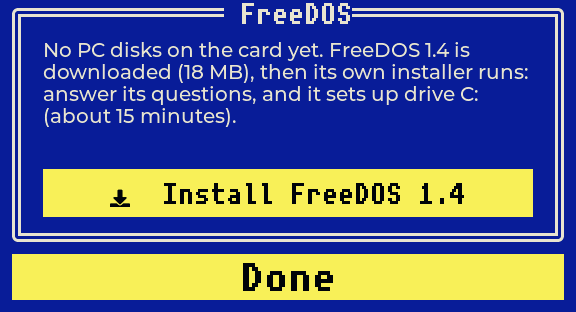
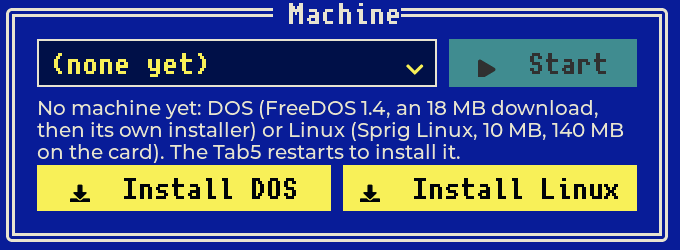
Empty card: the Machine frame alone; README: Sprig Linux's start
The settings panel on an empty card no longer puts a FreeDOS frame in
place of the sliders: the Machine frame's Install DOS and Install Linux
set up the first machine. The offer to start from an installer CD's
.iso went with that frame; the README describes the same set-up by
hand, and dosdisk.py new now gives a disk the firmware's boot code, so
a blank C: passes the boot on to the CD (tested in QEMU with FreeDOS's
LiveCD). New screenshots: the empty card's Machine frame, Sprig Linux
starting.

diff --git a/firmware/tab5_386/settings_ui.h b/firmware/tab5_386/settings_ui.h
@@ -25,8 +25,6 @@ static lv_display_t* g_disp;
 static lv_obj_t *ui_wifi, *ui_addr, *ui_pcstate, *ui_list, *ui_scan_lbl, *ui_pause_lbl, *ui_reset_lbl;
 static lv_obj_t *ui_modal, *ui_modal_title, *ui_ta_ssid, *ui_ta_pass, *ui_show_btn, *ui_msg, *ui_spinner, *ui_kb;
 static lv_obj_t *ui_connect_btn, *ui_bri, *ui_vol, *ui_mouse, *ui_wifi_sw, *ui_batt, *ui_aspect_sw;
-static lv_obj_t *ui_dc, *ui_fd, *ui_fd_msg, *ui_fd_bar, *ui_fd_btn, *ui_fd_iso, *ui_dc_cap, *ui_fd_cap;   // the sliders; or, the card empty, installing
-                                                                    // FreeDOS (fd_install.h) in their place
 static lv_obj_t *ui_mach_dd, *ui_mach_start, *ui_inst_msg, *ui_dos_btn, *ui_lnx_btn;   // the machines
 static int64_t g_start_armed = 0;   // "Start" tapped once at this time (as Reset PC: it restarts the Tab5)
 // The dialog: a Wi-Fi network's name and password, or a new machine's name (Install DOS / Install Linux)
@@ -226,7 +224,7 @@ static void ui_fill_machines() {
     opts += g_machines[i].name;
     if (machine_path() == "/sdcard/" + String(g_machines[i].file)) cur = i;
   }
-  lv_dropdown_set_options(ui_mach_dd, g_machine_count ? opts.c_str() : "(no settings file on the card)");
+  lv_dropdown_set_options(ui_mach_dd, g_machine_count ? opts.c_str() : "(none yet)");
   lv_dropdown_set_selected(ui_mach_dd, cur);
   g_start_armed = 0;
 }
@@ -274,43 +272,19 @@ static void ui_refresh_status() {
     else lv_obj_remove_state(ui_mach_start, LV_STATE_DISABLED);
     // a new machine: DOS (fd_install.h) or Linux (linux_install.h), installed after a restart with no PC
     const bool net = !g_ssid.isEmpty();
-    const char* msg = net ? "A new machine: DOS (FreeDOS 1.4, an 18 MB download, then its own installer) or Linux "
-                            "(Sprig Linux, 10 MB, 140 MB on the card). The Tab5 restarts to install it."
-                          : "A new machine, DOS or Linux: set up Wi-Fi first (a network on the right).";
+    // (no machine: an empty card, where the panel opens by itself, with Wi-Fi on)
+    const char* msg =
+        !net && !g_machine_count ? "No machine on the card yet: choose a Wi-Fi network on the right, then install DOS "
+                                   "or Linux."
+        : !net ? "A new machine, DOS or Linux: set up Wi-Fi first (a network on the right)."
+        : !g_machine_count ? "No machine yet: DOS (FreeDOS 1.4, an 18 MB download, then its own installer) or Linux "
+                             "(Sprig Linux, 10 MB, 140 MB on the card). The Tab5 restarts to install it."
+        : "A new machine: DOS (FreeDOS 1.4, an 18 MB download, then its own installer) or Linux (Sprig Linux, 10 MB, "
+          "140 MB on the card). The Tab5 restarts to install it.";
     if (strcmp(lv_label_get_text(ui_inst_msg), msg)) lv_label_set_text(ui_inst_msg, msg);
     for (lv_obj_t* b : {ui_dos_btn, ui_lnx_btn}) {
       if (net) lv_obj_remove_state(b, LV_STATE_DISABLED);
       else lv_obj_add_state(b, LV_STATE_DISABLED);
-    }
-  }
-  if (g_setup_needed) {   // (known after the panel is made: load_config)
-    lv_obj_add_flag(ui_dc, LV_OBJ_FLAG_HIDDEN);
-    lv_obj_add_flag(ui_dc_cap, LV_OBJ_FLAG_HIDDEN);
-    lv_obj_remove_flag(ui_fd, LV_OBJ_FLAG_HIDDEN);
-    lv_obj_remove_flag(ui_fd_cap, LV_OBJ_FLAG_HIDDEN);
-    const bool running = g_fd_state == FD_RUNNING, up = g_wifi == WIFI_UP;
-    static char iso_msg[200];
-    snprintf(iso_msg, sizeof(iso_msg), "No PC disks on the card yet. Install FreeDOS 1.4 (downloaded, 18 MB), or "
-             "start the PC from %s with a new, empty C: drive%s.", g_fd_iso, up ? "" : " (FreeDOS: Wi-Fi first)");
-    const char* msg = g_fd_state != FD_IDLE ? g_fd_msg
-                      : g_fd_iso[0] ? iso_msg
-                      : up ? "No PC disks on the card yet. FreeDOS 1.4 is downloaded (18 MB), then its own installer "
-                             "runs: answer its questions, and it sets up drive C: (about 15 minutes)."
-                           : "No PC disks on the card yet. Connect to Wi-Fi (on the right), then install FreeDOS.";
-    if (strcmp(lv_label_get_text(ui_fd_msg), msg)) lv_label_set_text(ui_fd_msg, msg);
-    lv_obj_set_style_text_color(ui_fd_msg, lv_color_hex(g_fd_state == FD_FAILED ? C_WARN : C_INK), 0);
-    if (running) lv_obj_remove_flag(ui_fd_bar, LV_OBJ_FLAG_HIDDEN);
-    else lv_obj_add_flag(ui_fd_bar, LV_OBJ_FLAG_HIDDEN);
-    lv_bar_set_value(ui_fd_bar, g_fd_pct, LV_ANIM_OFF);
-    if (up && !running) lv_obj_remove_state(ui_fd_btn, LV_STATE_DISABLED);
-    else lv_obj_add_state(ui_fd_btn, LV_STATE_DISABLED);
-    if (g_fd_iso[0]) {   // two buttons side by side: the download, and the CD image
-      lv_obj_set_width(ui_fd_btn, 220);
-      lv_label_set_text(lv_obj_get_child(ui_fd_btn, 0), LV_SYMBOL_DOWNLOAD "  FreeDOS");
-      lv_obj_remove_flag(ui_fd_iso, LV_OBJ_FLAG_HIDDEN);
-      lv_label_set_text_fmt(lv_obj_get_child(ui_fd_iso, 0), LV_SYMBOL_DRIVE "  %s", g_fd_iso);
-      if (!running) lv_obj_remove_state(ui_fd_iso, LV_STATE_DISABLED);
-      else lv_obj_add_state(ui_fd_iso, LV_STATE_DISABLED);
     }
   }
 }
@@ -859,44 +833,7 @@ static void ui_setup() {
     g_prefs.putBool("aspect43", g_aspect43);   // (drawn so when the panel closes: g_redraw_pc)
   }, LV_EVENT_VALUE_CHANGED, nullptr);
   ui_switch_label(asp, ui_aspect_sw);
-  lv_obj_t* dc_cap = ui_caption(scr, "Screen, sound, touchpad", LX, DY, LW);
-
-  // an empty card: FreeDOS from freedos.org, in place of the sliders (fd_install.h; shown by ui_refresh_status)
-  ui_dc = dc;
-  ui_dc_cap = dc_cap;
-  {
-    ui_fd = ui_card(scr, LX, DY, LW, 222);
-    lv_obj_add_flag(ui_fd, LV_OBJ_FLAG_HIDDEN);
-    ui_fd_msg = ui_label(ui_fd, "", &lv_font_montserrat_20, C_INK);   // (prose: the smaller face)
-    lv_label_set_long_mode(ui_fd_msg, LV_LABEL_LONG_WRAP);
-    lv_obj_set_width(ui_fd_msg, lv_pct(100));
-    lv_obj_set_pos(ui_fd_msg, 0, 0);
-    ui_fd_bar = lv_bar_create(ui_fd);
-    lv_bar_set_range(ui_fd_bar, 0, 100);
-    lv_obj_set_size(ui_fd_bar, LW - 50, 14);
-    lv_obj_set_pos(ui_fd_bar, 0, 108);
-    lv_obj_set_style_radius(ui_fd_bar, 0, 0);
-    lv_obj_set_style_radius(ui_fd_bar, 0, LV_PART_INDICATOR);
-    lv_obj_set_style_bg_color(ui_fd_bar, lv_color_hex(C_DEEP), 0);
-    lv_obj_set_style_bg_color(ui_fd_bar, lv_color_hex(C_ACCENT), LV_PART_INDICATOR);
-    ui_fd_btn = ui_button(ui_fd, LV_SYMBOL_DOWNLOAD "  Install FreeDOS 1.4", [](lv_event_t*) {
-      ui_show_name_modal(MODAL_DOS);   // (a named machine, as from the Machine frame)
-    }, true);
-    lv_obj_set_size(ui_fd_btn, LW - 50, 48);
-    lv_obj_set_pos(ui_fd_btn, 0, 130);
-    ui_fd_iso = ui_button(ui_fd, "", [](lv_event_t*) {
-      fd_install_start(true);
-      ui_refresh_status();
-    }, true);
-    lv_obj_set_size(ui_fd_iso, 266, 48);
-    lv_obj_set_pos(ui_fd_iso, LW - 50 - 266, 130);
-    lv_obj_t* iso_l = lv_obj_get_child(ui_fd_iso, 0);   // (one line: a long name ends in "...")
-    lv_label_set_long_mode(iso_l, LV_LABEL_LONG_DOT);
-    lv_obj_set_size(iso_l, 242, 26);
-    lv_obj_add_flag(ui_fd_iso, LV_OBJ_FLAG_HIDDEN);
-    ui_fd_cap = ui_caption(scr, "FreeDOS", LX, DY, LW);
-    lv_obj_add_flag(ui_fd_cap, LV_OBJ_FLAG_HIDDEN);
-  }
+  ui_caption(scr, "Screen, sound, touchpad", LX, DY, LW);
 
   lv_obj_t* done = ui_button(scr, "Done", [](lv_event_t*) { panel_close(); }, true);
   lv_obj_set_pos(done, LX - 6, DY + 222 + 18);

diff --git a/firmware/tab5_386/fd_install.h b/firmware/tab5_386/fd_install.h
@@ -54,13 +54,12 @@ enum FdState { FD_IDLE, FD_RUNNING, FD_FAILED };
 static volatile FdState g_fd_state = FD_IDLE;
 static volatile int g_fd_pct = 0;       // the download's progress
 static char g_fd_msg[120] = "";         // what it is doing, or why it failed (the settings panel shows it)
-static bool g_setup_needed = false;     // no disks on the card (load_config): the panel offers the install
+static bool g_setup_needed = false;     // no disks on the card (load_config): the panel opens, to install a machine
 // tiny386.ini's [tab5] install: 1, FreeDOS's installer is running (from FDSETUP.IMG); 2, the PC starts from an
-// installer CD, and C.IMG has no system yet. (Installs ran with the translator off for a while: two of five had
-// stopped partway, from the code sync fixed since, src/t386_i386.c.)
+// installer CD, and C.IMG has no system yet (set up by 1.2.0 and before, which offered an .iso on an empty card).
+// (Installs ran with the translator off for a while: two of five had stopped partway, from the code sync fixed since,
+// src/t386_i386.c.)
 static int g_install_mode = 0;
-static char g_fd_iso[80] = "";          // an installer CD image at the card's root (an empty card): offered as well
-static bool g_fd_from_iso = false;      // the install asked for: from g_fd_iso (else FreeDOS's download)
 
 static void fd_say(const char* fmt, ...) {
   va_list ap;
@@ -266,35 +265,6 @@ static const char* FD_INI_FINAL =
     "; 1: the hard disks' geometry in the CMOS (some systems want it, others not)\r\nfill_cmos = 1\r\n"
     "[cpu]\r\n; 3/4/5/6 = 386/486/586/686\r\ngen = 4\r\n; 1 = x87 maths coprocessor\r\nfpu = 1\r\n";
 
-// An installer CD's ISO image at the card's root (not our NOCD.ISO): the first one, into g_fd_iso
-static void fd_find_iso() {
-  DIR* d = opendir("/sdcard");
-  if (!d) return;
-  while (struct dirent* e = readdir(d)) {
-    const size_t n = strlen(e->d_name);
-    if (n < 5 || n >= sizeof(g_fd_iso) || strcasecmp(e->d_name + n - 4, ".iso") || !strcasecmp(e->d_name, "NOCD.ISO"))
-      continue;
-    char path[100];
-    snprintf(path, sizeof(path), "/sdcard/%s", e->d_name);
-    struct stat st;
-    if (stat(path, &st) == 0 && S_ISREG(st.st_mode) && st.st_size >= (1 << 20)) {
-      strcpy(g_fd_iso, e->d_name);
-      break;
-    }
-  }
-  closedir(d);
-}
-
-static const char* FD_INI_ISO =
-    "; Tab5 PC machine settings, written by the firmware: the PC starts from the CD (%s) while C.IMG has no\r\n"
-    "; files, and from C.IMG once something is installed on it (the BIOS tries the hard disk first). Without the CD\r\n"
-    "; in the drive: delete the cdc line.\r\n"
-    "[pc]\r\nhda = @/C.IMG\r\ncdc = /sdcard/%s\r\n"
-    "mem_size = 16M\r\nvga_mem_size = 2M\r\nfill_cmos = 1\r\n"
-    "[cpu]\r\ngen = 4\r\nfpu = 1\r\n"
-    "; until a system is on C.IMG (the firmware deletes this then)\r\n"
-    "[tab5]\r\ninstall = 2\r\n";
-
 // text into the file at path, in pieces under a sector, unbuffered: FatFs copies each through its own sector buffer.
 // (Given 512 bytes or more at a sector's start, FatFs hands the caller's memory to the card's DMA, which needs it
 // 128-byte aligned in DMA-capable memory: FD_INI_FINAL, in flash, failed so, "sdmmc_write_blocks failed (0x102)",
@@ -405,7 +375,7 @@ static bool fd_install_finish() {
       for (size_t n; (n = fread(buf, 1, sizeof(buf), f)) > 0;) ini.concat(buf, n);
       fclose(f);
     }
-    for (const char* line : {"; until a system", "[tab5]", "install = 2"}) {   // (FD_INI_ISO's last lines)
+    for (const char* line : {"; until a system", "[tab5]", "install = 2"}) {   // (the ini's last lines)
       const int at = ini.indexOf(line), nl = at < 0 ? -1 : ini.indexOf('\n', at);
       if (at >= 0) ini.remove(at, nl < 0 ? ini.length() - at : nl + 1 - at);
     }
@@ -534,14 +504,6 @@ static bool fd_install_run() {
     struct stat st;
     if (stat(FD_DISK, &st) == 0) { fd_say("%s/C.IMG is already on the card: delete it first (it isn't replaced)", g_fd_dir.c_str() + 7); break; }
     mkdir(g_fd_dir.c_str(), 0777);
-    if (g_fd_from_iso) {   // the CD the user put on the card: a blank C: drive, and the PC starts from the CD
-      char ini[1024];
-      snprintf(ini, sizeof(ini), FD_INI_ISO, g_fd_iso, g_fd_iso);
-      if (!fd_make_disk()) break;
-      if (!fd_write_file(FD_INI, fd_ini_text(ini).c_str())) { fd_say("Writing to the card failed"); unlink(FD_DISK); break; }
-      ok = true;
-      break;
-    }
     if (!fd_download_psram_tls(buf, dict, inf)) break;
     if (!fd_make_disk()) { unlink(FD_SETUP); break; }
     if (!fd_write_file(FD_NOCD, "") || !fd_write_file(FD_INI, fd_ini_text(FD_INI_INSTALL).c_str())) {
@@ -569,22 +531,17 @@ static void fd_install_task(void*) {
       g_fd_state = FD_FAILED;
       continue;
     }
-    if (!g_fd_from_iso) {   // (in install mode: install_mode_run remembers the machine and restarts; not from here,
-      g_fd_state = FD_IDLE;   // a task with its stack in PSRAM, which mustn't write to flash: NVS)
-      fd_say("Done. Restarting into FreeDOS's installer ...");
-      continue;
-    }
-    fd_say("Done. Restarting from the CD ...");
-    delay(1500);
-    tab5_restart();
+    // (install_mode_run remembers the machine and restarts; not from here, a task with its stack in PSRAM, which
+    // mustn't write to flash: NVS)
+    g_fd_state = FD_IDLE;
+    fd_say("Done. Restarting into FreeDOS's installer ...");
   }
 }
 
-// The install of the default machine (name "": an empty card, or an installer CD there), or of one named
-static void fd_install_start(bool from_iso, const char* name = "") {
+// The install of the machine named name (in install mode)
+static void fd_install_start(const char* name) {
   if (g_fd_state == FD_RUNNING) return;
-  g_fd_from_iso = from_iso && g_fd_iso[0];
-  fd_use(name[0] && !g_fd_from_iso ? "/sdcard/tiny386-" + String(name) + ".ini" : String("/sdcard/tiny386.ini"));
+  fd_use("/sdcard/tiny386-" + String(name) + ".ini");
   if (!g_fd_task && xTaskCreatePinnedToCoreWithCaps(fd_install_task, "fdinstall", 24576, nullptr, 1, &g_fd_task, 0,
                                                     MALLOC_CAP_SPIRAM) != pdPASS) {
     g_fd_task = nullptr;

diff --git a/tools/dosdisk.py b/tools/dosdisk.py
@@ -1,7 +1,8 @@
 #!/usr/bin/env python3
 """Make and fill DOS hard disk images (one FAT partition) on the PC, for the Tab5 PC's SD card.
 
-    tools/dosdisk.py new D.IMG [--mb 504] [--label DATA]   a blank, formatted disk (FAT16, up to 2047 MB)
+    tools/dosdisk.py new D.IMG [--mb 504] [--label DATA]   a blank, formatted disk (FAT16, up to 2047 MB); as C:
+                                                           it boots the next device (a CD) while it has no files
     tools/dosdisk.py ls D.IMG [DIR]                        list a directory
     tools/dosdisk.py put D.IMG SRC... DEST                 copy files or directories in (DEST is a directory)
     tools/dosdisk.py get D.IMG SRC DEST                    copy a file out
@@ -49,6 +50,16 @@ def chs(lba):
     return bytes([h, (s + 1) | (c >> 8) << 6, c & 0xFF])
 
 
+def mbr_code():
+    """The boot code the firmware gives a new C.IMG (firmware/tab5_386/mbr_code.h, from tools/mbr/mbr.S): it starts
+    the active partition, or the next boot device (INT 18h) while the partition's root directory has no files."""
+    with open(os.path.join(ROOT, "firmware", "tab5_386", "mbr_code.h")) as f:
+        text = f.read()
+    code = bytes(int(x, 16) for x in text[text.index("{"):text.index("}")].replace(",", " ").split() if x.startswith("0x"))
+    assert len(code) == 446
+    return code
+
+
 def new(path, mb, label):
     if os.path.exists(path):
         sys.exit(f"{path} exists; delete it first")
@@ -60,6 +71,7 @@ def new(path, mb, label):
     with open(path, "wb") as f:
         f.truncate(total * 512)
         mbr = bytearray(512)
+        mbr[0:446] = mbr_code()
         mbr[446:462] = bytes([0x80]) + chs(START) + bytes([ptype]) + chs(START + count - 1) + struct.pack("<II", START, count)
         mbr[510:512] = b"\x55\xaa"
         f.write(mbr)

diff --git a/README.md b/README.md
@@ -2,8 +2,8 @@
 
 A PC emulated on the M5Stack Tab5, built on [tiny386](https://github.com/hchunhui/tiny386): a 386/486 with VGA, a
 PS/2 keyboard and mouse, a Sound Blaster 16, AdLib and PC speaker, IDE hard disks, CD-ROM images, floppies and
-SeaBIOS. It runs DOS. On an empty SD card it downloads and installs FreeDOS by itself; files are copied to it over
-Wi-Fi from a browser.
+SeaBIOS. It runs DOS and Linux. On an empty SD card it downloads and installs FreeDOS or
+[Sprig Linux](https://github.com/yejun/sprig-linux) by itself; files are copied to it over Wi-Fi from a browser.
 
 ![FreeDOS's first start on the Tab5](docs/images/first-boot.png)
 
@@ -53,8 +53,9 @@ v3.x for later ones: `CHIP=postv3 tools/build.sh upload`. A build for the wrong 
 ## First start: FreeDOS on an empty card
 
 1. Put an empty card in the Tab5 and switch it on. With nothing on the card, the settings panel opens with Wi-Fi
-   on: choose your network on the right, then tap **Install FreeDOS 1.4** and give the machine a name (for example
-   `dos`; tap again to confirm). The Tab5 restarts into its install mode, with no PC running, and shows how it goes.
+   on: choose your network on the right, then tap **Install DOS** in the Machine frame and give the machine a name
+   (for example `dos`; tap again to confirm). The Tab5 restarts into its install mode, with no PC running, and shows
+   how it goes. (**Install Linux** sets up Sprig Linux instead: see [More machines](#more-machines-dos-and-linux-side-by-side).)
 
    ![The settings panel on an empty card](docs/images/panel-install.png)
 
@@ -78,9 +79,10 @@ the install is done.
 
 **Other ways to start:**
 
-- **An installer CD**: put an `.iso` of a bootable installer CD (for example FreeDOS's LiveCD) at the root of the
-  empty card. The panel then also offers to start the PC from it, with a new, empty `C.IMG`. The PC starts from the
-  CD while C: has no files, and from C: once something is installed on it.
+- **An installer CD**: put the `.iso` of a bootable installer CD (for example FreeDOS's LiveCD) on the card, make an
+  empty hard disk (`.venv/bin/python tools/dosdisk.py new sdcard/C.IMG --mb 500`, copied to the card) and write a
+  `tiny386.ini` with `hda = /sdcard/C.IMG` and `cdc = /sdcard/<name>.iso` (see [Settings](#settings)). The BIOS tries
+  the hard disk first, so the PC starts from the CD while C: is empty, and from C: once a system is installed on it.
 - **Prepare the card on a computer**: `.venv/bin/python tools/make_sdcard.py` makes `sdcard/C.IMG` (FreeDOS 1.4
   with all its packages, 32 MB), `sdcard/D.IMG` (504 MB, empty) and a matching `sdcard/tiny386.ini`. Copy the three
   files to the root of the card. It starts straight at the `C:\>` prompt.
@@ -101,6 +103,8 @@ new machine.
   with a graphics console (800 x 600); the machine's settings file says how to use the text console instead.
   Installing Linux again with the same name updates it: its kernel and loader are replaced, its disk (`root.img`,
   your files) is kept.
+
+  ![Sprig Linux's first start on the Tab5](docs/images/linux-boot.png)
 
 A name already on the card (its settings file or its folder) can't be used again, except to update Sprig Linux. If an
 install fails, the screen says why, and a tap goes back to the machine there was. Serial: `machines`,

diff --git a/CHANGELOG.md b/CHANGELOG.md
@@ -1,5 +1,13 @@
 # Changelog
 
+## Unreleased
+
+- The settings panel on an empty card: no FreeDOS frame in place of the sliders any more; the Machine frame's
+  **Install DOS** and **Install Linux** set up the first machine, as any other (its list reads "(none yet)"). The
+  offer to start the PC from an installer CD's `.iso` at the card's root went with the frame (the README says how to
+  set that up by hand); a machine set up that way by 1.2.0 still finishes its install as before.
+- README: a screenshot of Sprig Linux starting; the empty card's panel.
+
 ## 1.2.0 (2026-10-28)
 
 Machines by name, with DOS and Linux installed from the settings panel; a faster fast interpreter; fixes. The firmware
